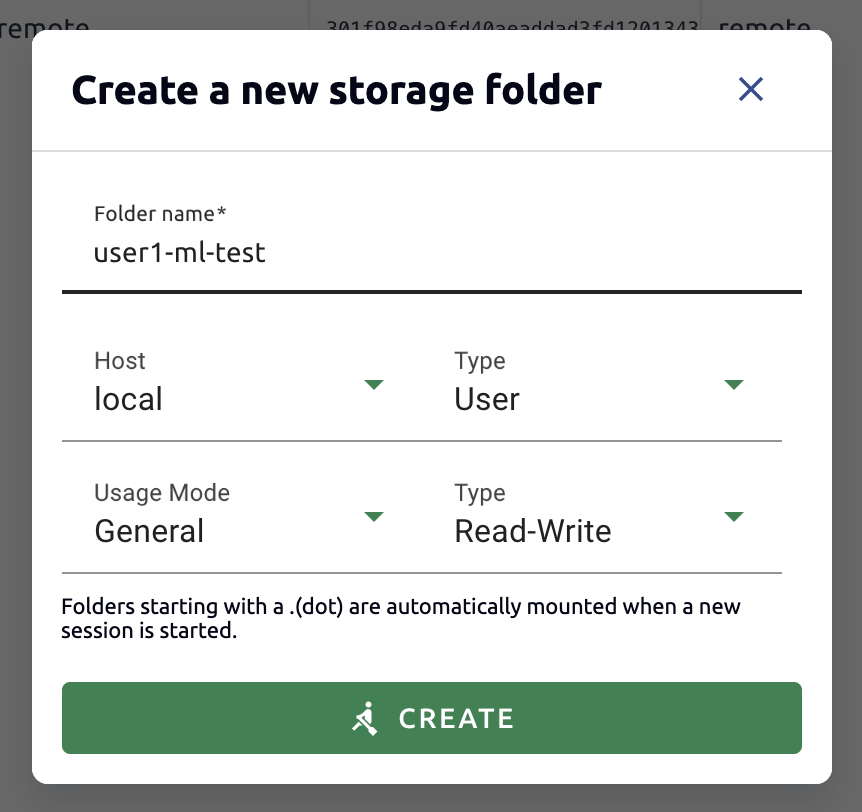
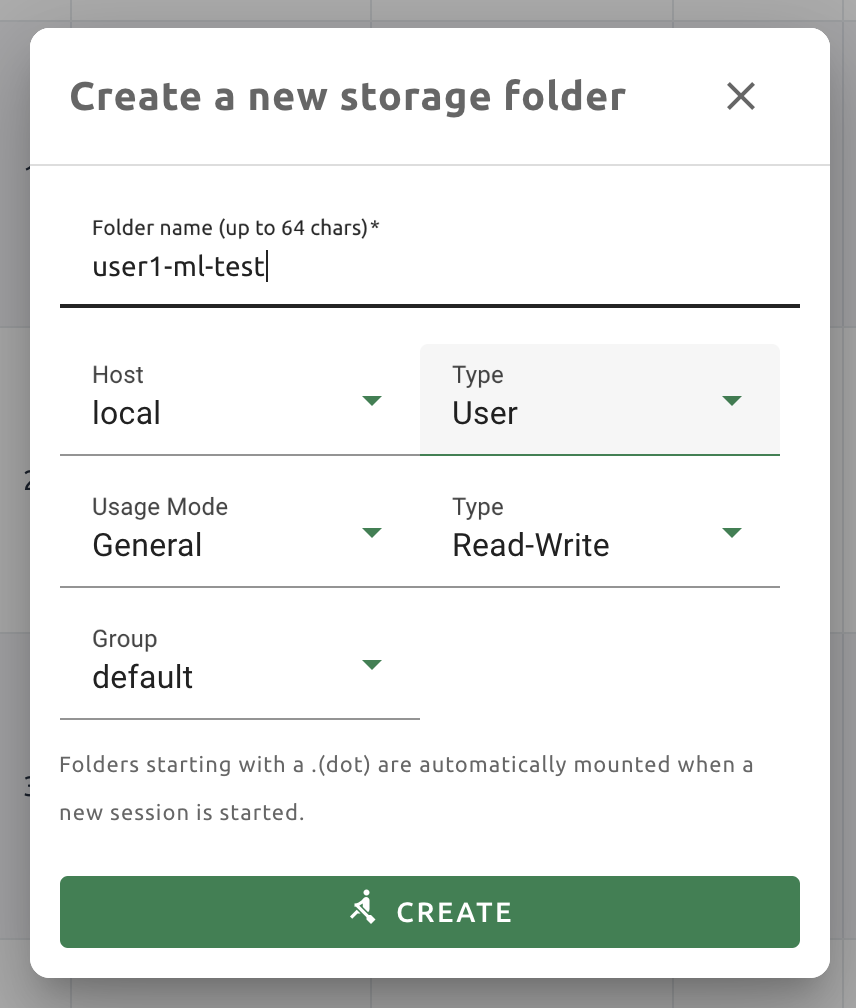
docs: add detailed description on vfolder creation dialog

diff --git a/docs/vfolder/vfolder.rst b/docs/vfolder/vfolder.rst
@@ -43,6 +43,23 @@ CREATE button.
    :align: center
    :alt: Folder creation dialog
 
+The meaning of each fields that can be selected in the creation dialog is as
+follows.
+
+* Folder name: The name of the folder. You can enter up to 64 characters.
+* Host: NFS host to create folder. You can choose if you have multiple NFS
+  hosts.
+* Type: Determines the type of folder to be created. It can be set as User or
+  Group. The User folder is a folder that users can create and can use alone,
+  and the Group folder can be created by admin and shared by users in the group.
+* Usage Mode: You can set the purpose of the folder. There are three types:
+  General, Data, and Model. It is classified for the development of functions
+  exclusively for data and model stores in the future, and currently there is no
+  difference in UI depending on the purpose.
+* Group: When creating a group folder, designate the group to which the folder
+  belongs. Group folders must belong to a group. However, it does not play any
+  role when creating a user folder.
+
 
 Explore folder
 --------------
